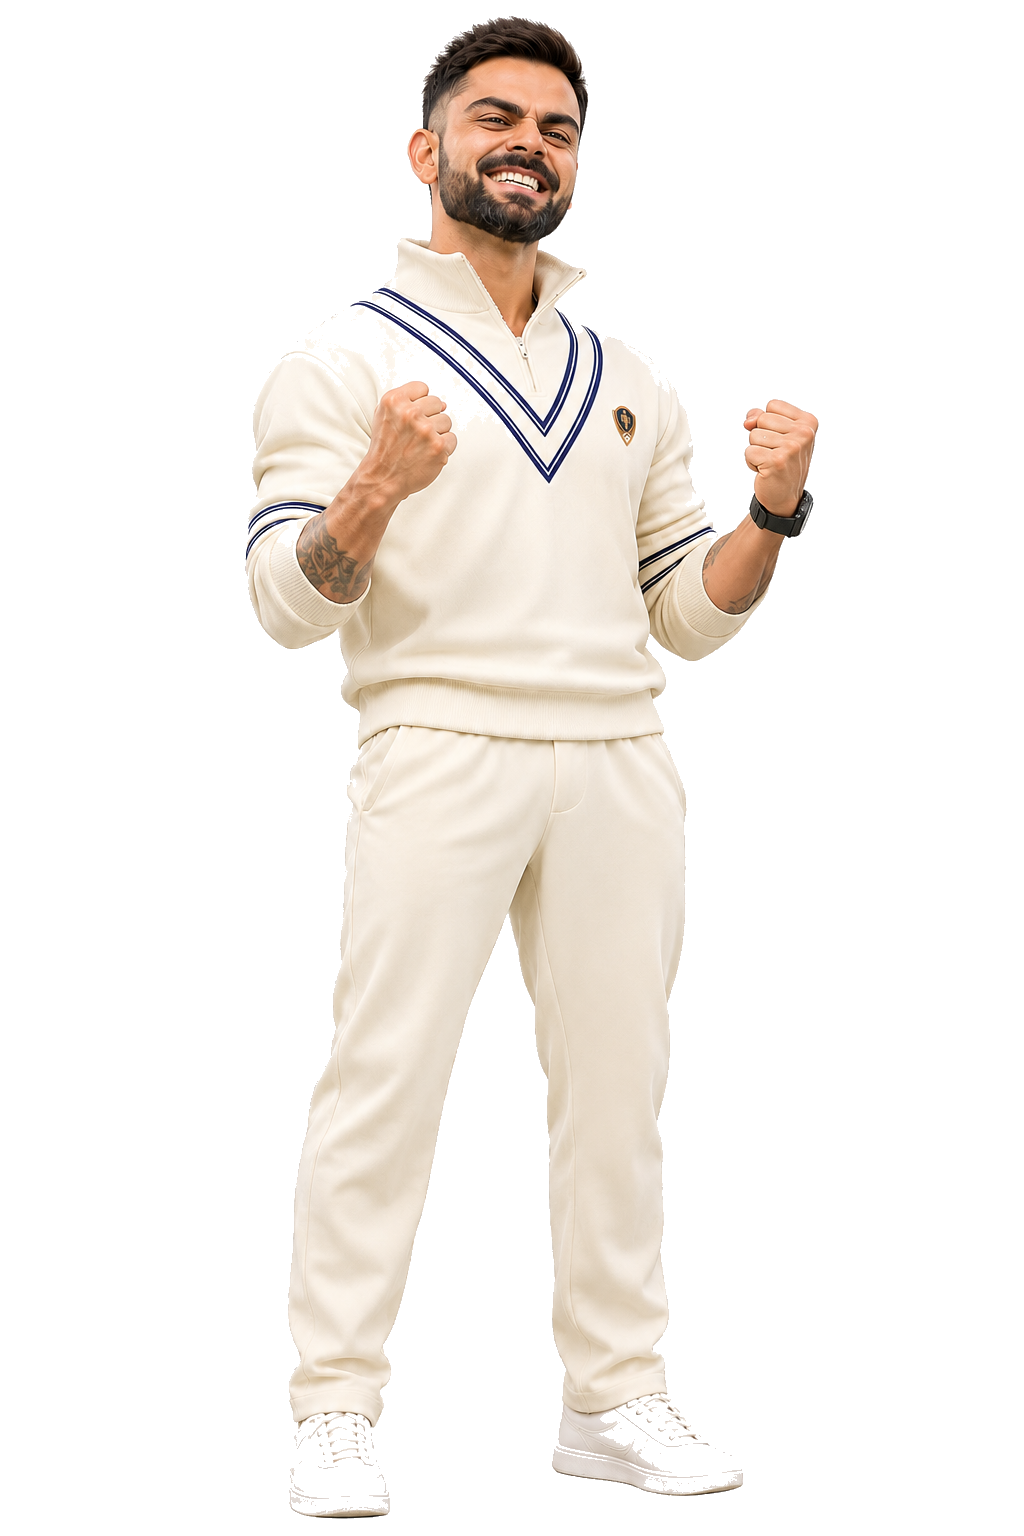
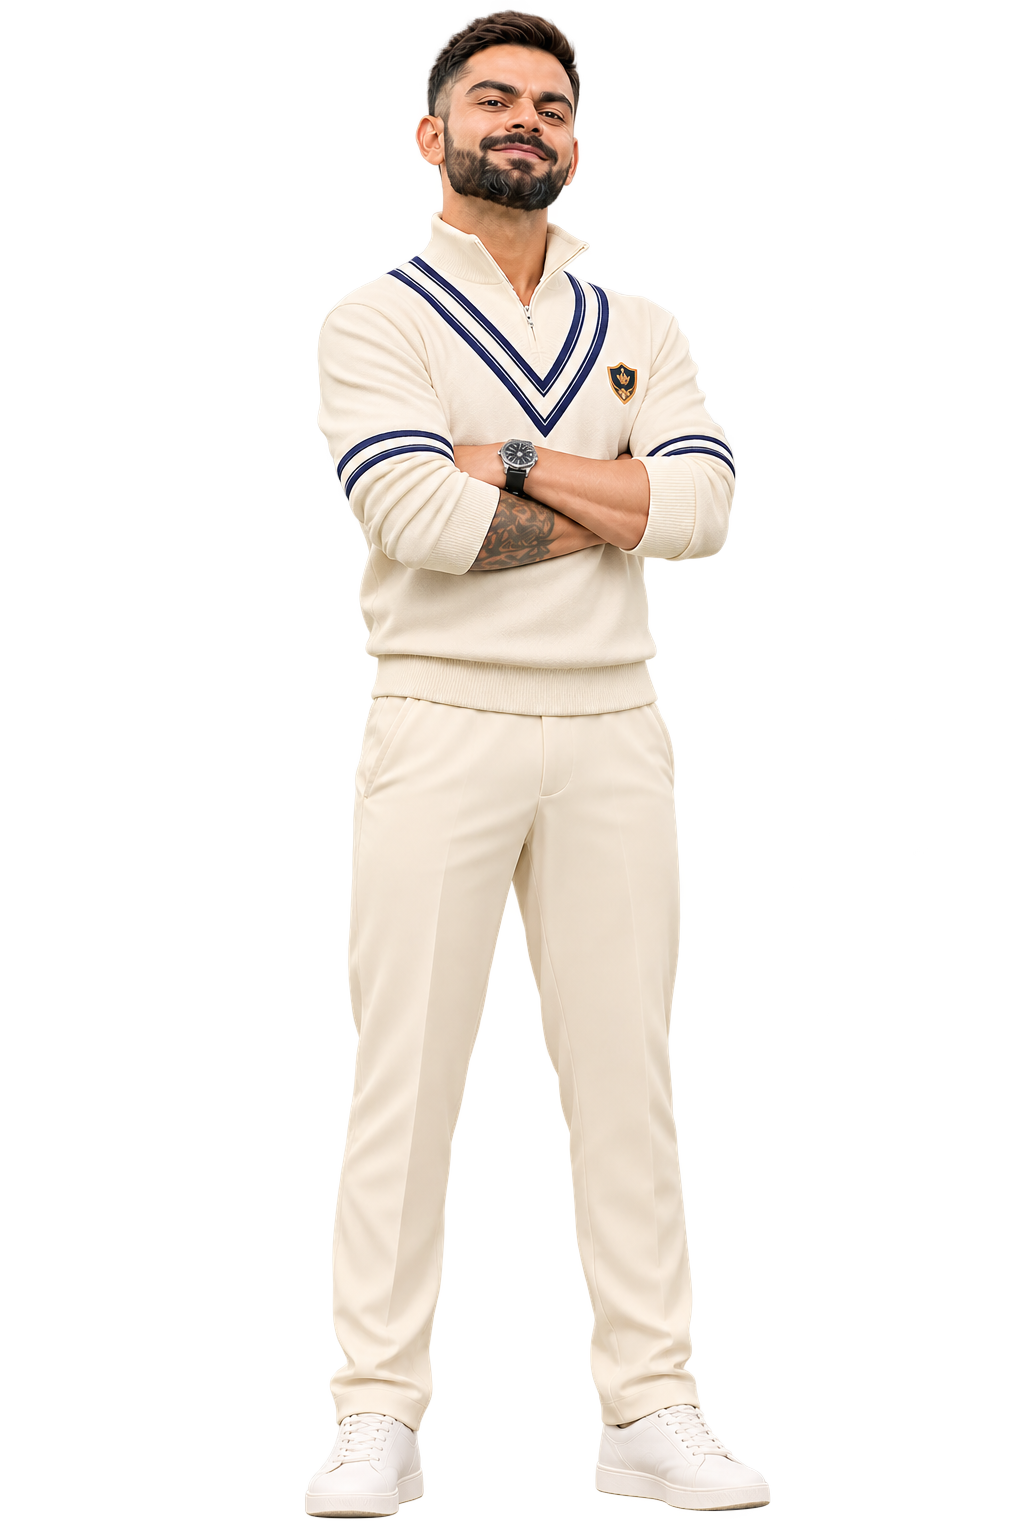
feat: update WardrobeSection layout and styling for improved visual balance

Changed region(s): [[0.2188, 0.0, 0.8125, 1.0], [0.5312, 0.6562, 0.75, 1.0], [0.6562, 0.5, 0.6875, 0.625]]

diff --git a/src/index.css b/src/index.css
@@ -722,7 +722,7 @@ body.mobile-menu-open {
 }
 
 /* ==========================================================================
-   WARDROBE & BANNER SECTIONS (HERO -> 13VH WHITE GAP -> VK BANNER -> 13VH WHITE GAP -> WARDROBE)
+   WARDROBE & BANNER SECTIONS (HERO -> WHITE GAP -> VK BANNER -> WHITE GAP -> WARDROBE)
    ========================================================================== */
 
 .wardrobe-flow-wrapper {
@@ -735,24 +735,23 @@ body.mobile-menu-open {
   overflow-x: hidden;
 }
 
-/* Equal 13vh pure white gaps */
+/* Balanced pure white gaps */
 .section-white-gap {
   width: 100%;
   max-width: 100%;
-  height: 13vh;
+  height: clamp(32px, 10vh, 120px);
   background-color: #ffffff;
   display: block;
   flex-shrink: 0;
 }
 
-/* Slim full-width horizontal strip (Perk chocolate wrapper style: 180-220px desktop height) */
+/* Slim full-width horizontal strip */
 .vk-banner-section {
   position: relative;
   width: 100%;
   max-width: 100%;
   height: 200px;
-  /* Inside 180-220px range */
-  background: linear-gradient(90deg, #a1785d 0%, #b88f73 30%, #a47b60 70%, #73553f 100%);
+  background-color: #ffffff;
   overflow: hidden;
   contain: paint;
   display: flex;
@@ -780,6 +779,8 @@ body.mobile-menu-open {
   max-width: 100%;
   object-fit: contain;
   display: block;
+  transform: scale(1.675);
+  transform-origin: center;
 }
 
 /* ONE8 Interactive Wardrobe Showcase Section */

diff --git a/src/components/WardrobeSection.jsx b/src/components/WardrobeSection.jsx
@@ -29,7 +29,7 @@ const MODELS = [
 /**
  * WardrobeSection Component for ONE8.
  * Renders the sections immediately following the Hero in normal document flow:
- * Hero → 13vh white gap → VK Banner (slim Perk wrapper strip) → 13vh white gap → ONE8 Wardrobe
+ * Hero → balanced white gap → VK Banner strip → balanced white gap → ONE8 Wardrobe
  *
  * Inside ONE8 Wardrobe:
  * - One8-wordrobe.png is the fixed background layer showing both wardrobes.
@@ -175,7 +175,7 @@ function WardrobeSection() {
 
   return (
     <div className="wardrobe-flow-wrapper">
-      {/* 13vh pure white gap below Hero */}
+      {/* Balanced pure white gap below Hero */}
       <div className="section-white-gap" aria-hidden="true" />
 
       {/* VK Banner Section - Slim full-width horizontal strip (around 180-220px desktop height) */}
@@ -188,7 +188,7 @@ function WardrobeSection() {
         />
       </section>
 
-      {/* 13vh pure white gap between VK Banner and ONE8 Wardrobe */}
+      {/* Balanced pure white gap between VK Banner and ONE8 Wardrobe */}
       <div className="section-white-gap" aria-hidden="true" />
 
       {/* ONE8 Wardrobe Section - Fixed wardrobe base with central interactive model stage */}
